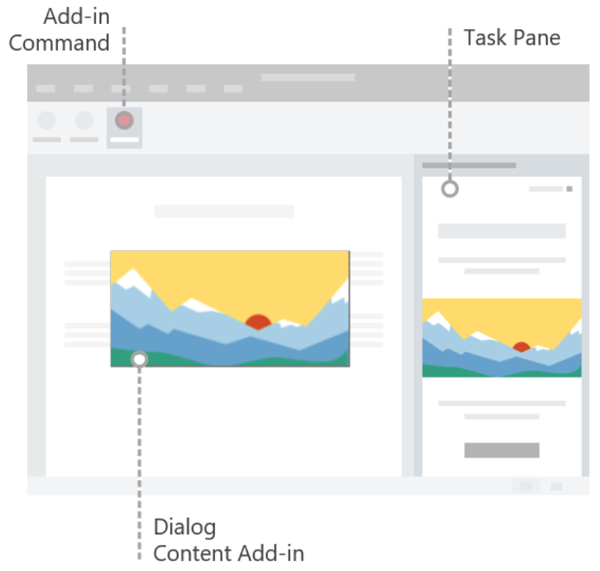
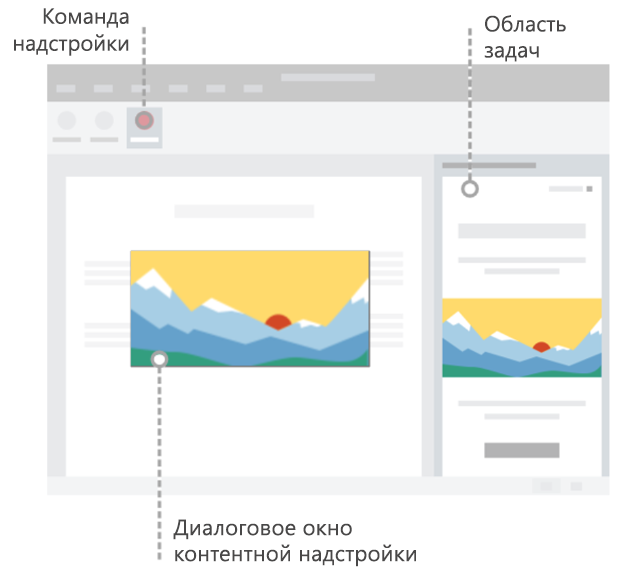
commit translated contents

diff --git a/docs/reference/requirement-sets/word-api-requirement-sets.md b/docs/reference/requirement-sets/word-api-requirement-sets.md
@@ -1,15 +1,15 @@
 ---
 title: Наборы обязательных элементов API JavaScript для Word
 description: Сведения о наборе обязательных элементов надстройки Office для сборок Word
-ms.date: 07/17/2019
+ms.date: 01/06/2020
 ms.prod: word
 localization_priority: Priority
-ms.openlocfilehash: 4af7a9c14489d148ffdc06a68ad6c26bf326abc5
-ms.sourcegitcommit: 6d9b4820a62a914c50cef13af8b80ce626034c26
+ms.openlocfilehash: c90daafe46d301b404ee902b38bb7417562adc44
+ms.sourcegitcommit: abe8188684b55710261c69e206de83d3a6bd2ed3
 ms.translationtype: HT
 ms.contentlocale: ru-RU
-ms.lasthandoff: 07/19/2019
-ms.locfileid: "35804627"
+ms.lasthandoff: 01/08/2020
+ms.locfileid: "40969533"
 ---
 # <a name="word-javascript-api-requirement-sets"></a>Наборы обязательных элементов API JavaScript для Word
 
@@ -32,7 +32,10 @@ ms.locfileid: "35804627"
 | [WordApi 1.1](word-api-1-1-requirement-set.md) | Версия 1509 (сборка 4266.1001) или более поздняя| Январь 2016 г., версия 1.18 или выше | Январь 2016 г., версия 15.19 или выше| Сентябрь 2016 г. |
 
 > [!NOTE]
-> Номер сборки Office 2016, установленной с помощью MSI, — 16.0.4266.1001. Эта версия содержит только набор требований WordApi 1.1.
+> Бессрочные версии Office поддерживают следующие наборы обязательных элементов:
+>
+> - Office 2019 поддерживает WordApi 1.3 и более ранние версии.
+> - Office 2016 поддерживает только набор обязательных элементов WordApi 1.1.
 
 ## <a name="office-versions-and-build-numbers"></a>Номера версий и сборок Office
 

diff --git a/docs/reference/requirement-sets/excel-api-requirement-sets.md b/docs/reference/requirement-sets/excel-api-requirement-sets.md
@@ -1,15 +1,15 @@
 ---
 title: Наборы обязательных элементов API JavaScript для Excel
 description: Сведения о наборе обязательных элементов надстройки Office для сборок Excel
-ms.date: 12/24/2019
+ms.date: 01/06/2020
 ms.prod: excel
 localization_priority: Priority
-ms.openlocfilehash: ce3a51c37128627765b587d1baef35d051c52917
-ms.sourcegitcommit: 350f5c6954dec3e9384e2030cd3265aaba7ae904
+ms.openlocfilehash: 742c2e925ed7b1be8e1449cd9021c6cf03519d7b
+ms.sourcegitcommit: abe8188684b55710261c69e206de83d3a6bd2ed3
 ms.translationtype: HT
 ms.contentlocale: ru-RU
-ms.lasthandoff: 12/23/2019
-ms.locfileid: "40851378"
+ms.lasthandoff: 01/08/2020
+ms.locfileid: "40969526"
 ---
 # <a name="excel-javascript-api-requirement-sets"></a>Наборы обязательных элементов API JavaScript для Excel
 
@@ -40,7 +40,10 @@ ms.locfileid: "40851378"
 | [ExcelApi 1.1](excel-api-1-1-requirement-set.md)  | Версия 1509 (сборка 4266.1001) или более поздняя   | 1.19 или более поздняя | 15.20 или более поздняя | Январь 2016 г. |
 
 > [!NOTE]
-> Номер сборки Office 2016, установленной с помощью MSI, — 16.0.4266.1001. Эта версия содержит только набор обязательных элементов ExcelApi 1.1.
+> Бессрочные версии Office поддерживают следующие наборы обязательных элементов:
+>
+> - Office 2019 поддерживает ExcelApi 1.8 и более ранние версии.
+> - Office 2016 поддерживает только набор обязательных элементов ExcelApi 1.1.
 
 ## <a name="office-versions-and-build-numbers"></a>Номера версий и сборок Office
 
